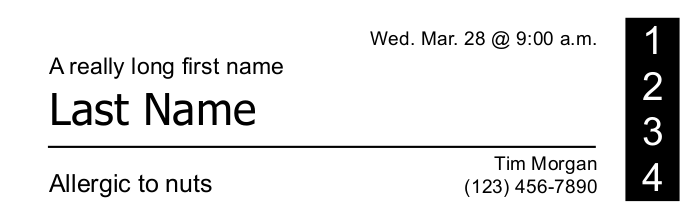
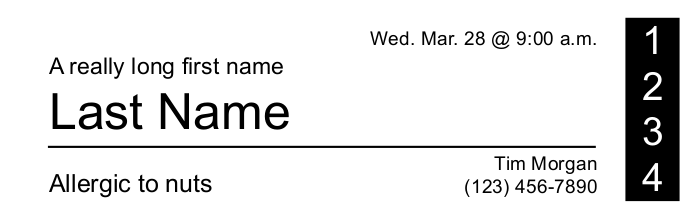
Improve alignment of text

Changed region(s): [[0.06, 0.411, 0.42, 0.6027]]

diff --git a/renderer.rb b/renderer.rb
@@ -82,9 +82,13 @@ class Renderer
     begin
       pdf.fill_color color
       pdf.font File.join(FONT_DIR, font_family + '.ttf')
+      # horizontal padding of 1 point
+      x += 1
+      width -= 2
       (box, actual_size) = text_box_with_font_size(
         strings.join,
         size: size,
+        character_spacing: 0,
         at: [x, y],
         width: width,
         height: height,
@@ -94,8 +98,8 @@ class Renderer
         disable_wrap_by_char: true,
         single_line: !verticalized
       )
-      # fix some line height issues by shift the box down by 0.4 of the font point size
-      box.at[1] -= (actual_size * 0.4)
+      # correct vertical alignment to more closely match Dymo -- this gets us close, but not perfect :-(
+      box.at[1] -= 2 + (actual_size * 0.2)
       # on bottom-aligned boxes, Dymo counts the height of character descenders
       box.at[1] += box.descender if valign == :bottom
       box.render
